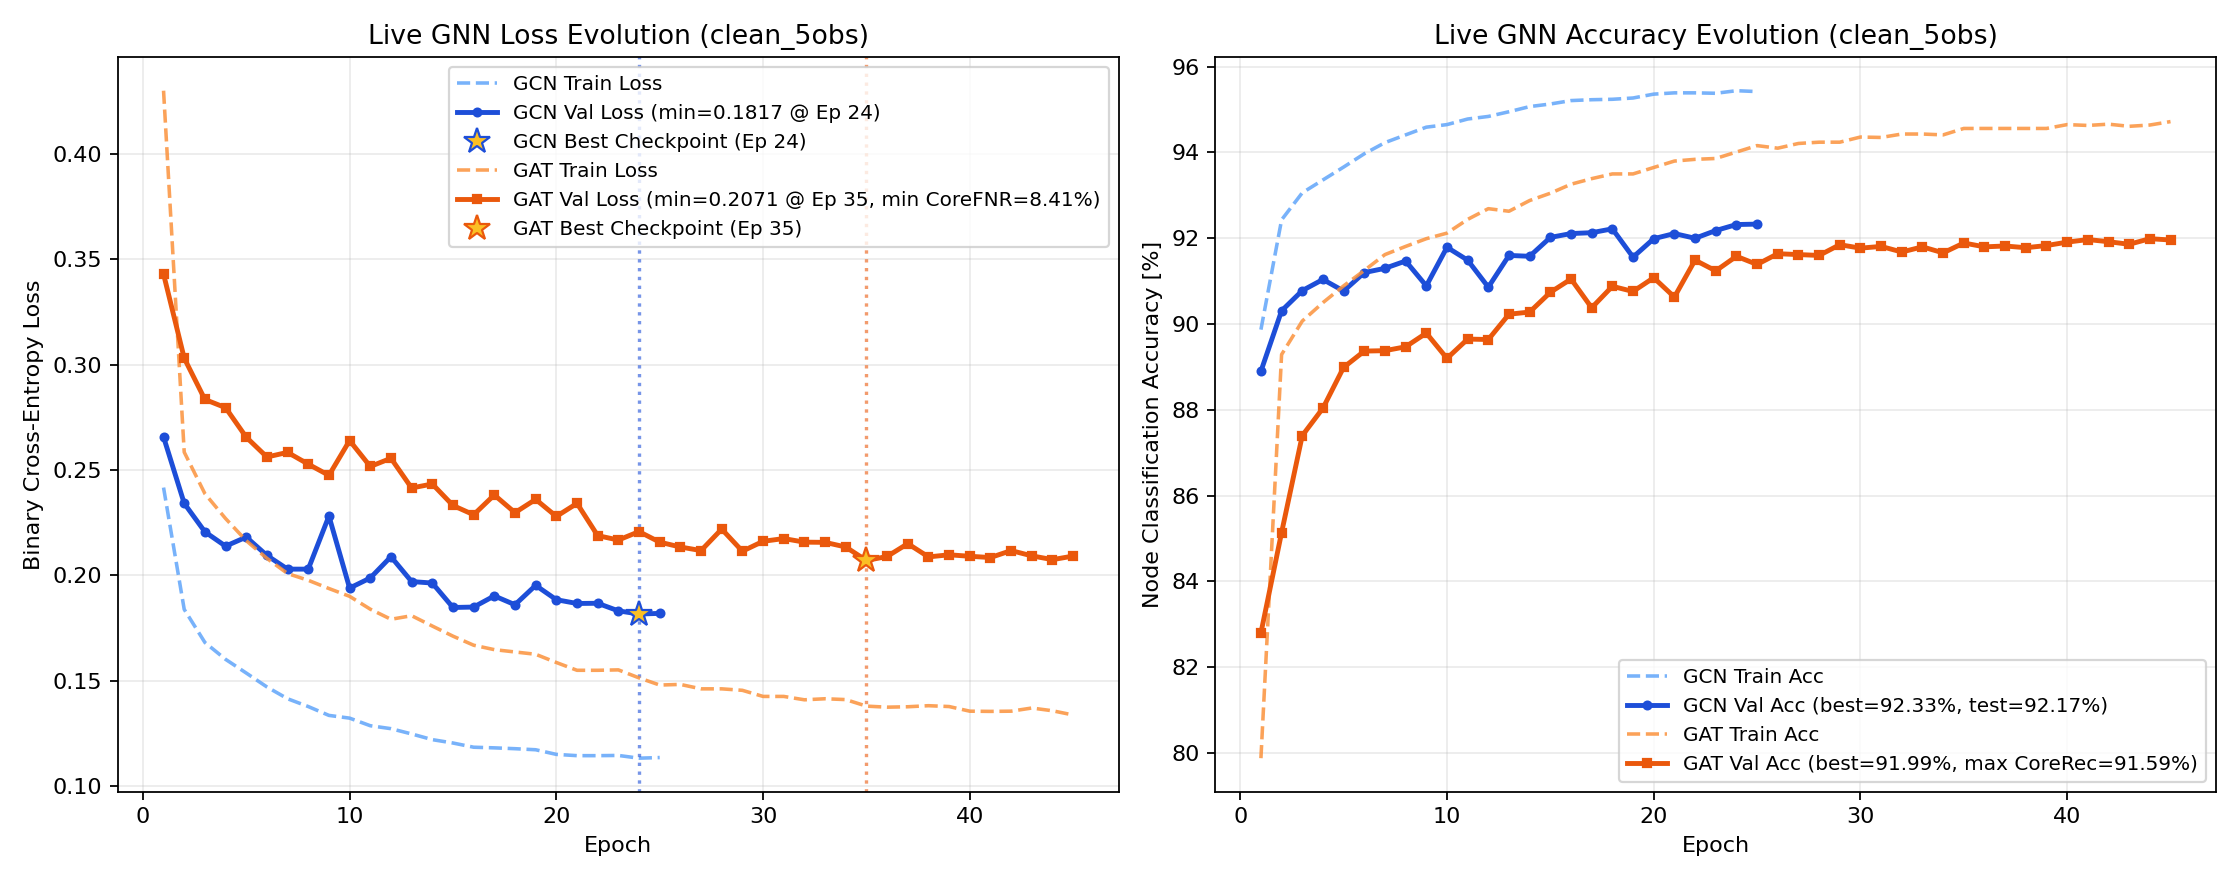
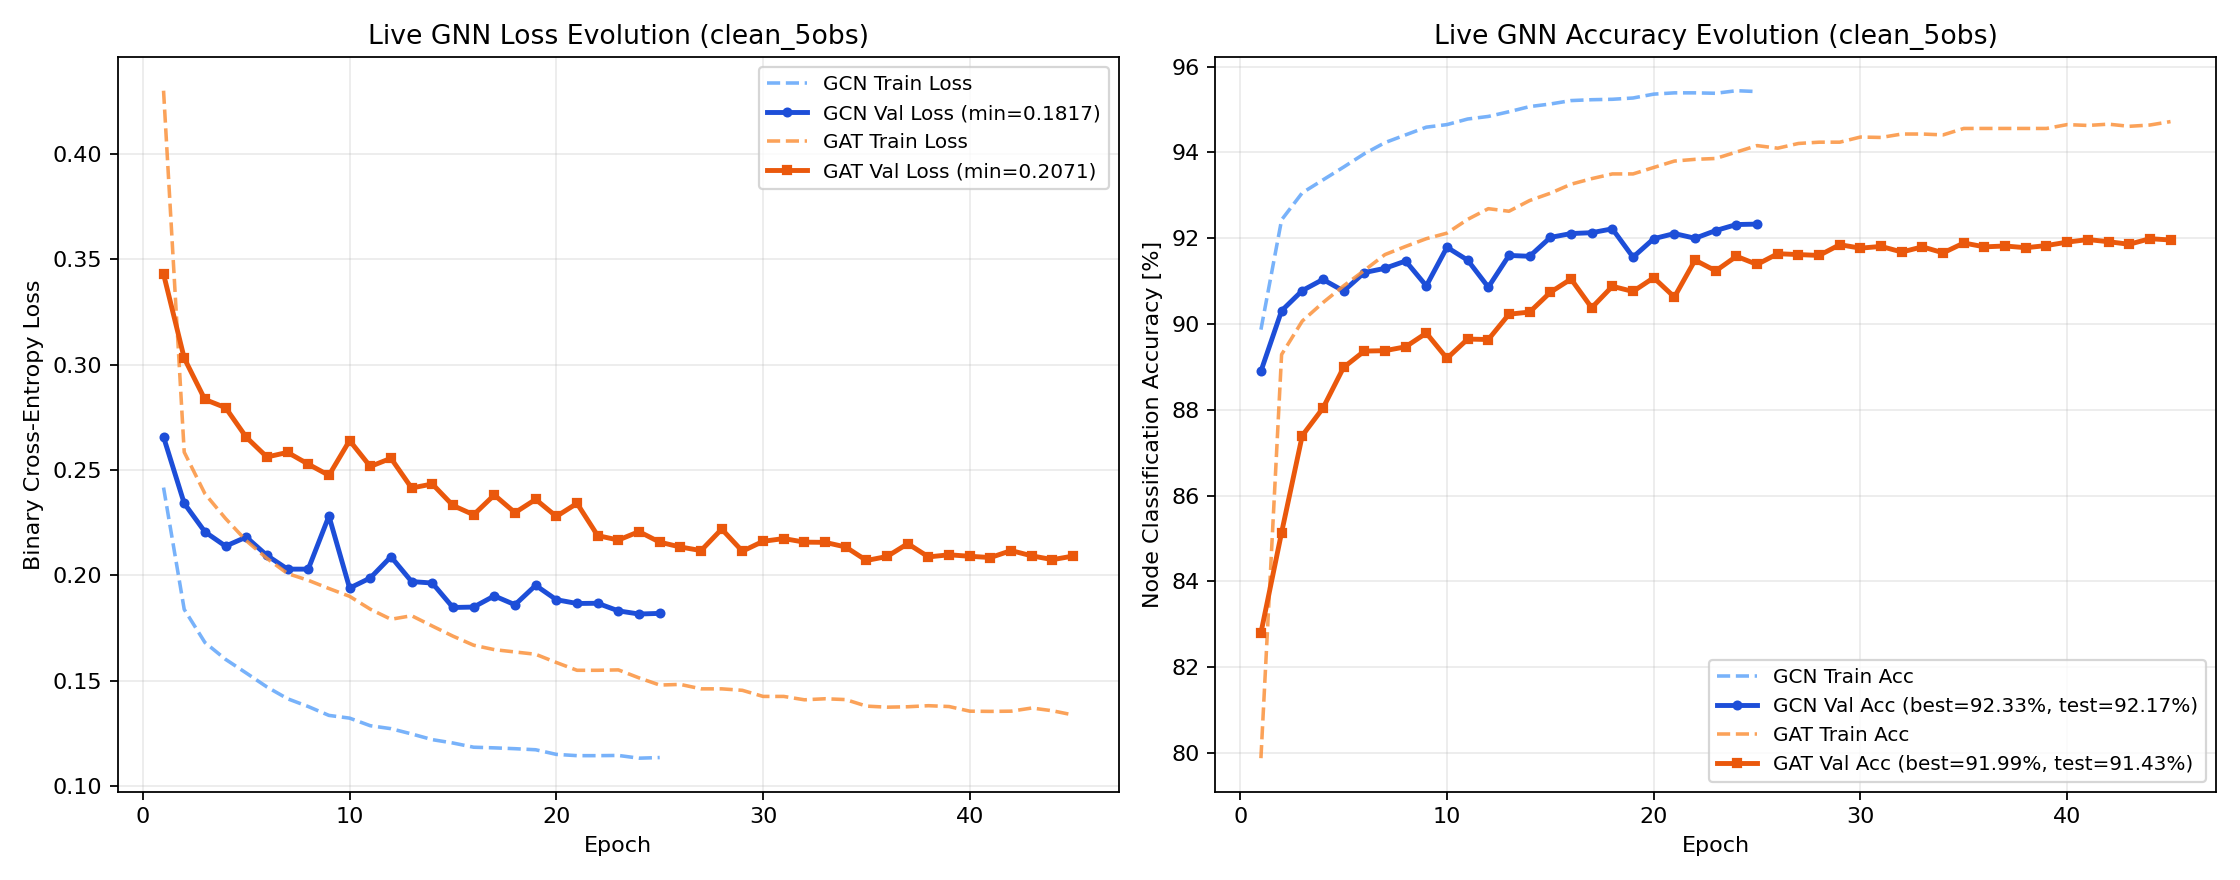
Update Study 2 live status and figures (2026-11-14 01:19)

diff --git a/LIVE_STATUS.md b/LIVE_STATUS.md
@@ -1,16 +1,15 @@
 # Live Pipeline Status on Jed
 
 ```text
-[2026-11-14 01:18:02] Study 2 Pipeline Status on Jed
+[2026-11-14 01:19:54] Study 2 Pipeline Status on Jed
 - Step 1 (Plummer ICs): 81 / 81 ready
 - Step 2 (SWIFT Runs): 81 / 81 completed (101 snapshots)
 - Step 3 (Observables): Labels=81/81 | Clean=81/81 | GaiaNoisy=81/81
 - Step 4 (5D Graphs): Clean=81/81 | GaiaNoisy=81/81
 - Step 5/6 Live GNN Training Progress:
-  * clean_5obs/training_metrics_gat_clean.log: Ep 045 | Train 0.1338 (94.72%) | Val 0.2092 (91.96%, Best=91.99%) | CoreFNR: 11.06% (min=8.41%) | Test=In progress
+  * clean_5obs/training_metrics_gat_clean.log: Ep 045 | Train 0.1338 (94.72%) | Val 0.2092 (91.96%, Best=91.99%) | Test=91.43%
   * clean_5obs/training_metrics_gcn_clean.log: Ep 025 | Train 0.1136 (95.42%) | Val 0.1820 (92.33%, Best=92.33%) | Test=92.17%
   * legacy/clean_5obs_static_5rot/training_metrics_gcn_clean.log: Ep 025 | Train 0.1136 (95.42%) | Val 0.1820 (92.33%, Best=92.33%) | Test=92.17%
-- Saved Model Checkpoints (.pth): 8 mirrored in GNN-jed/trained_models/study2/weights/
 
 SLURM Queue:
 JOBID  PARTITION                   NAME   ST       TIME  NODES NODELIST(REASON)
@@ -20,29 +19,16 @@ JOBID  PARTITION                   NAME   ST       TIME  NODES NODELIST(REASON)
 41146835_[0-4%   academic      Study2_Step6_4Obs   PD       0:00      2 (Dependency)
       41185010   academic Study2V2_Step4_BuildGr   PD       0:00      1 (Dependency)
 41185009_[0-80   academic Study2V2_Step3_Extract   PD       0:00      1 (Dependency)
-      41146834   academic   Study2_Step5_Train81    R 1-10:28:32      2 jst[317,320]
+      41146834   academic   Study2_Step5_Train81    R 1-10:33:43      2 jst[317,320]
 ```
 
 ## Live Neural Network Training Metrics
 
-| Experiment | Architecture | Latest Epoch | Train Loss | Train Acc | Val Loss | Val Acc | Best Val Acc | Core FNR | Test Acc | Test F1 |
-| :--- | :---: | :---: | :---: | :---: | :---: | :---: | :---: | :---: | :---: | :---: |
-| `clean_5obs` | **GAT** | 45 | 0.1338 | 94.72% | 0.2092 | 91.96% | **91.99%** | 8.41% (val min) | **In progress** | - |
-| `clean_5obs` | **GCN** | 25 | 0.1136 | 95.42% | 0.1820 | 92.33% | **92.33%** | - | **92.17%** | 0.8886 |
-| `clean_5obs_static_5rot` | **GCN** | 25 | 0.1136 | 95.42% | 0.1820 | 92.33% | **92.33%** | - | **92.17%** | 0.8886 |
-
-## Saved Model Weights (`.pth` Checkpoints)
-
-| Checkpoint | Size | Experiment Path | Central Archive Mirror |
-| :--- | :---: | :--- | :--- |
-| `best_gat_clean.pth` | 361.2 KB | `GNN-jed/trained_models/study2/clean_5obs/best_gat_clean.pth` | `GNN-jed/trained_models/study2/weights/best_gat_clean.pth` |
-| `best_gat_clean_ep18_backup.pth` | 361.2 KB | `GNN-jed/trained_models/study2/clean_5obs/best_gat_clean_ep18_backup.pth` | `GNN-jed/trained_models/study2/weights/best_gat_clean_ep18_backup.pth` |
-| `best_gcn_clean.pth` | 120.0 KB | `GNN-jed/trained_models/study2/clean_5obs/best_gcn_clean.pth` | `GNN-jed/trained_models/study2/weights/best_gcn_clean.pth` |
-| `best_gat_clean_ep18_backup.pth` | 361.2 KB | `GNN-jed/trained_models/study2/legacy/clean_5obs_static_5rot/best_gat_clean_ep18_backup.pth` | `GNN-jed/trained_models/study2/weights/best_gat_clean_ep18_backup.pth` |
-| `best_gcn_clean.pth` | 120.0 KB | `GNN-jed/trained_models/study2/legacy/clean_5obs_static_5rot/best_gcn_clean.pth` | `GNN-jed/trained_models/study2/weights/best_gcn_clean.pth` |
-| `best_gat_clean.pth` | 361.2 KB | `GNN-jed/trained_models/study2/legacy/weights/best_gat_clean.pth` | `GNN-jed/trained_models/study2/weights/best_gat_clean.pth` |
-| `best_gat_clean_ep18_backup.pth` | 361.2 KB | `GNN-jed/trained_models/study2/legacy/weights/best_gat_clean_ep18_backup.pth` | `GNN-jed/trained_models/study2/weights/best_gat_clean_ep18_backup.pth` |
-| `best_gcn_clean.pth` | 120.0 KB | `GNN-jed/trained_models/study2/legacy/weights/best_gcn_clean.pth` | `GNN-jed/trained_models/study2/weights/best_gcn_clean.pth` |
+| Experiment | Architecture | Latest Epoch | Train Loss | Train Acc | Val Loss | Val Acc | Best Val Acc | Test Acc | Test F1 |
+| :--- | :---: | :---: | :---: | :---: | :---: | :---: | :---: | :---: | :---: |
+| `clean_5obs` | **GAT** | 45 | 0.1338 | 94.72% | 0.2092 | 91.96% | **91.99%** | **91.43%** | 0.8807 |
+| `clean_5obs` | **GCN** | 25 | 0.1136 | 95.42% | 0.1820 | 92.33% | **92.33%** | **92.17%** | 0.8886 |
+| `clean_5obs_static_5rot` | **GCN** | 25 | 0.1136 | 95.42% | 0.1820 | 92.33% | **92.33%** | **92.17%** | 0.8886 |
 
 ## Real-Time GNN Learning Curves (Loss & Accuracy Evolution)
 

diff --git a/GNN-jed/trained_models/study2/weights/MODEL_WEIGHTS_REGISTRY.md b/GNN-jed/trained_models/study2/weights/MODEL_WEIGHTS_REGISTRY.md
@@ -4,5 +4,5 @@ All best model checkpoints (`.pth`) are saved both in their respective experimen
 
 | Checkpoint File | Architecture | Features | Best Epoch | Val Loss | Val Acc | Core FNR | Test Acc | Test F1 | Size | Experiment Path |
 | :--- | :---: | :---: | :---: | :---: | :---: | :---: | :---: | :---: | :---: | :--- |
-| `best_gat_clean.pth` | **GAT** | 5D | 35 | 0.2071 | **91.89%** | 6.49% | **93.04%** | 0.9035 | 361.2 KB | `GNN-jed/trained_models/study2/clean_5obs/best_gat_clean.pth` |
+| `best_gat_clean.pth` | **GAT** | 5D | 35 | 0.2071 | **91.89%** | 9.22% | **91.43%** | 0.8807 | 361.2 KB | `GNN-jed/trained_models/study2/clean_5obs/best_gat_clean.pth` |
 | `best_gcn_clean.pth` | **GCN** | 5D | 24 | 0.1817 | **92.32%** | - | **92.17%** | 0.8886 | 120.0 KB | `GNN-jed/trained_models/study2/clean_5obs/best_gcn_clean.pth` |
